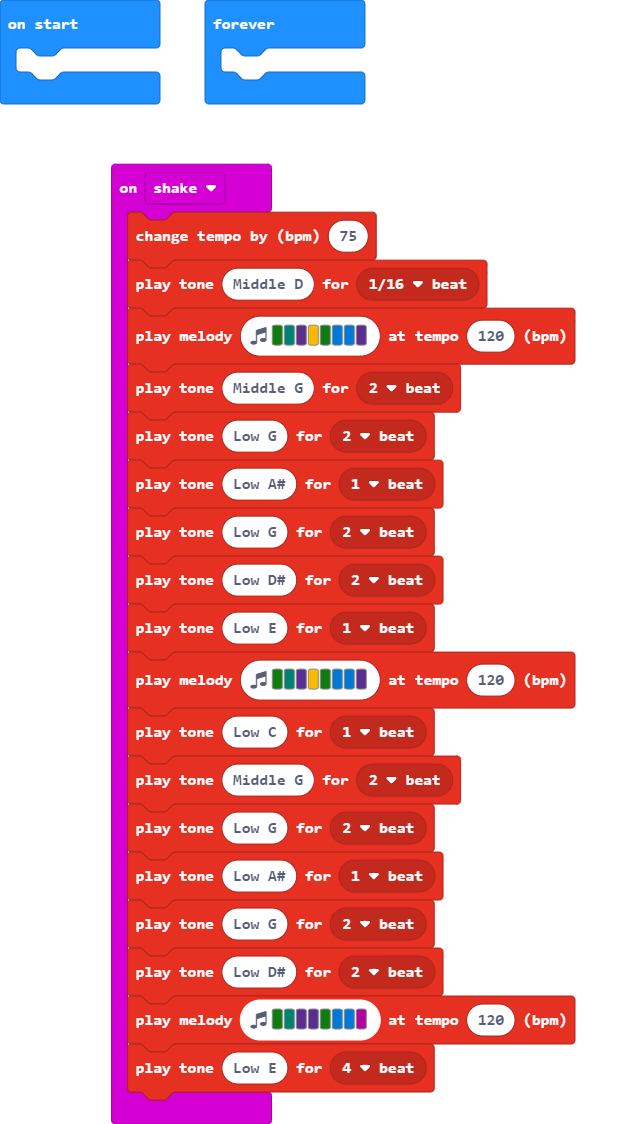
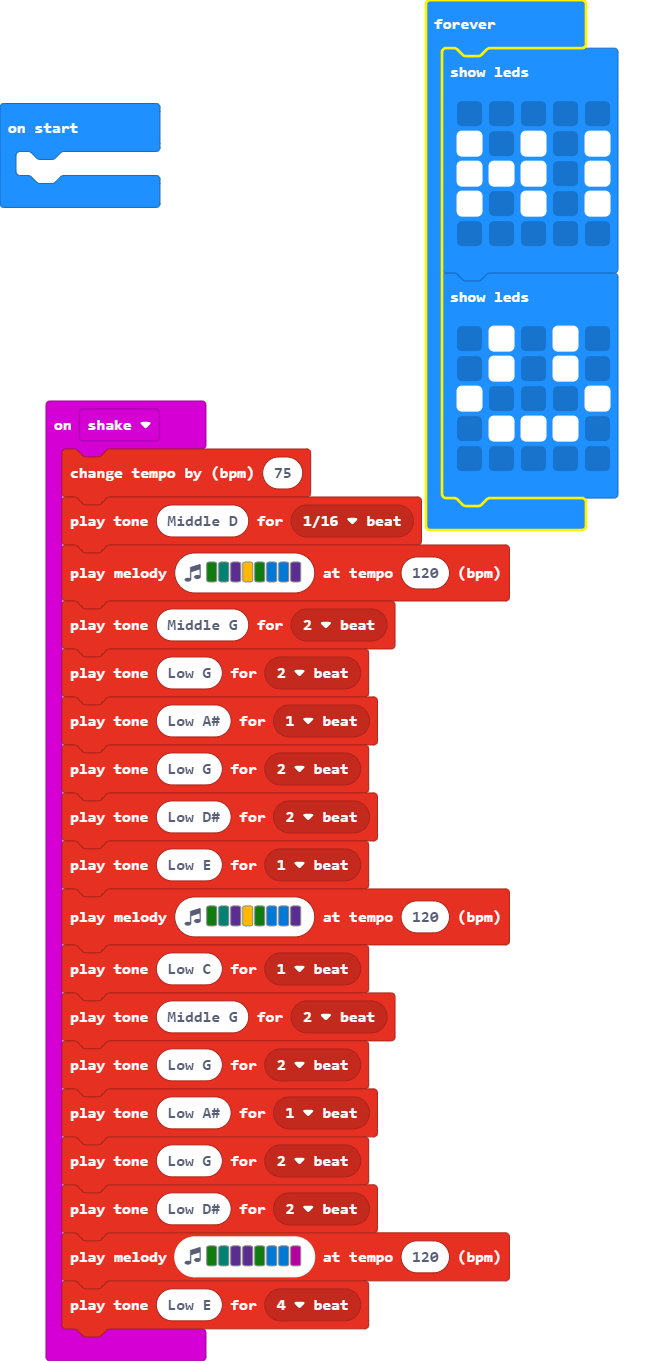
Update main.blocks, main.ts

diff --git a/main.ts b/main.ts
@@ -19,5 +19,18 @@ input.onGesture(Gesture.Shake, function () {
     music.playTone(165, music.beat(BeatFraction.Breve))
 })
 basic.forever(function () {
-	
+    basic.showLeds(`
+        . . . . .
+        # . # . #
+        # # # . #
+        # . # . #
+        . . . . .
+        `)
+    basic.showLeds(`
+        . # . # .
+        . # . # .
+        # . . . #
+        . # # # .
+        . . . . .
+        `)
 })
